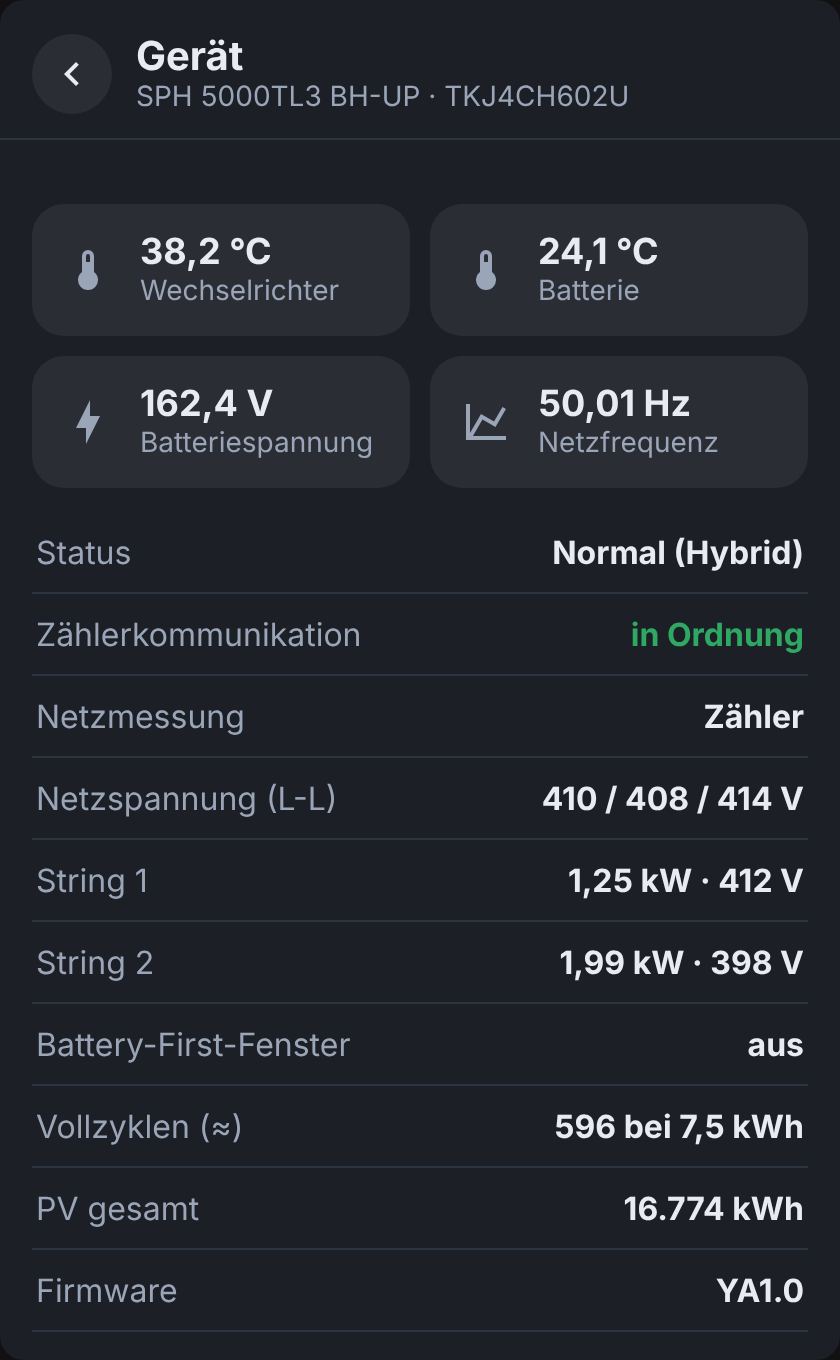
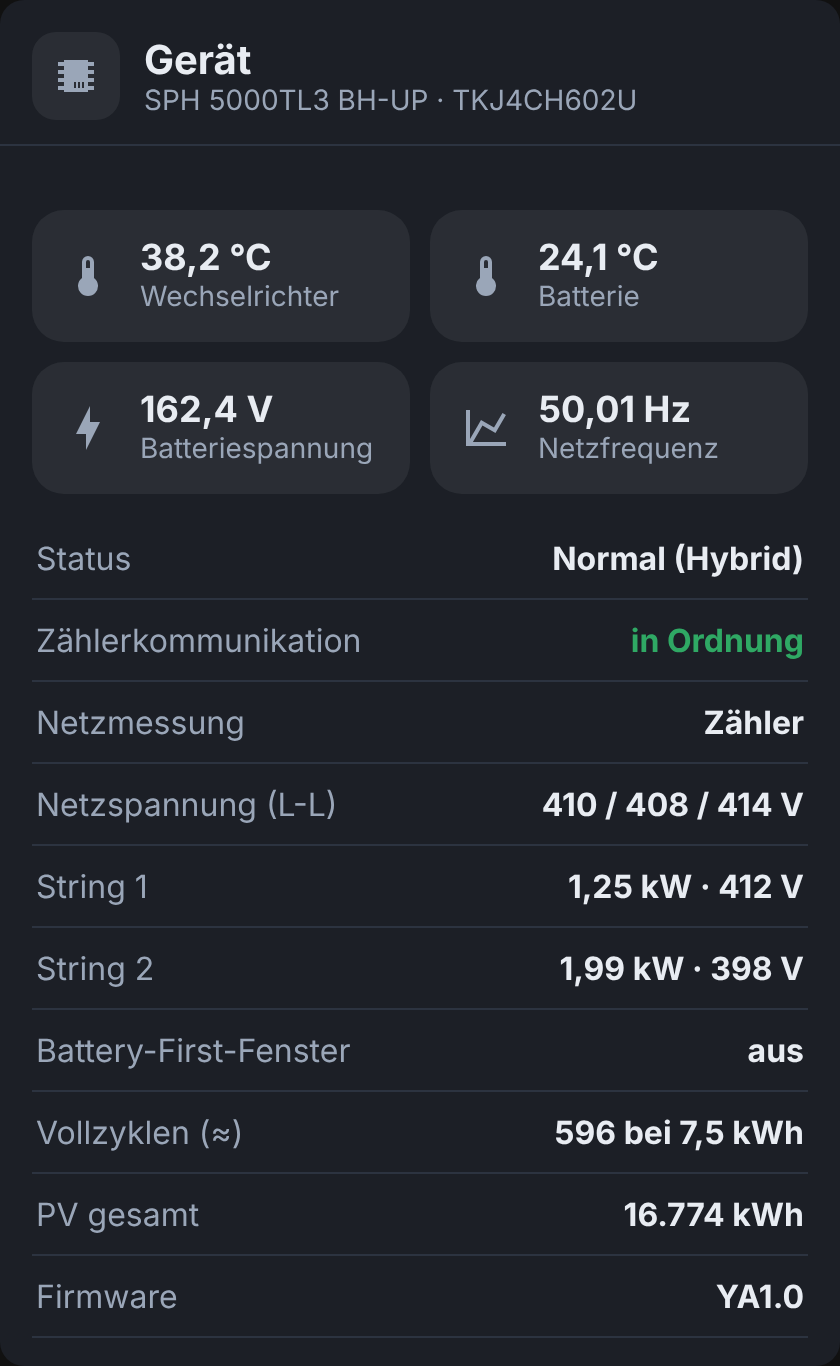
0.2.1: Ansicht pro Karte wählbar statt Navigation

diff --git a/custom_components/growatt_sph_local/www/growatt-sph-card.js b/custom_components/growatt_sph_local/www/growatt-sph-card.js
@@ -1,14 +1,17 @@
 /*
  * Growatt SPH Card – Dashboard-Karte für die Integration "Growatt SPH (lokal)".
  *
- * Ansichten: Übersicht (Haus-Grafik, Ladestand, Leistung), Heute & Verlauf
- * (Tagessummen, Monatsbalken aus der Langzeitstatistik), Steuerung (Entladestopp,
- * Netzladen, Backup-Reserve) und Gerät (Temperaturen, Netz, Strings, Firmware).
+ * Eine Karte zeigt genau eine Ansicht, gewählt mit `view` (im Karten-Editor auswählbar):
+ *   overview – Haus-Grafik, Ladestand, Leistung (Standard)
+ *   today    – Tagessummen, Monatsbalken aus der Langzeitstatistik
+ *   control  – Entladestopp, Netzladen, Backup-Reserve
+ *   device   – Temperaturen, Netz, Strings, Firmware
+ * Für mehrere Ansichten einfach mehrere Karten anlegen.
  *
  * Die Entitäten werden über das Entitätsregister gefunden (Plattform
  * growatt_sph_local, translation_key) – die minimale Konfiguration ist
  *   type: custom:growatt-sph-card
- * Optional: title, capacity (nutzbare Batteriekapazität in kWh, Standard 7.5),
+ * Optional: view, title, capacity (nutzbare Batteriekapazität in kWh, Standard 7.5),
  *           device_id (bei mehreren Wechselrichtern).
  *
  * Gestaltung angelehnt an die Karten von BavarianData (Chris Krammer, MIT),
@@ -16,7 +19,13 @@
  * MIT-Lizenz, Nutzung auf eigene Verantwortung.
  */
 
-const GSC_VERSION = "0.2.0";
+const GSC_VERSION = "0.2.1";
+const GSC_VIEWS = {
+  overview: "Übersicht",
+  today: "Heute & Verlauf",
+  control: "Steuerung",
+  device: "Gerät",
+};
 const GSC_PLATFORM = "growatt_sph_local";
 const GSC_ACTIVE_W = 30; // darunter gilt die Batterie als ruhend
 
@@ -67,7 +76,7 @@ const gscEsc = (s) => String(s ?? "").replace(/[&<>"']/g, (c) => ({ "&": "&amp;"
 
 class GrowattSphCard extends HTMLElement {
   static getStubConfig() {
-    return { capacity: 7.5 };
+    return { view: "overview", capacity: 7.5 };
   }
 
   static getConfigElement() {
@@ -76,7 +85,11 @@ class GrowattSphCard extends HTMLElement {
 
   setConfig(config) {
     this._config = { capacity: 7.5, ...(config || {}) };
-    this._view = this._view || "overview";
+    const view = this._config.view || "overview";
+    if (!GSC_VIEWS[view]) {
+      throw new Error(`Unbekannte Ansicht „${view}“ – erlaubt: ${Object.keys(GSC_VIEWS).join(", ")}`);
+    }
+    this._view = view;
     if (!this.shadowRoot) {
       this.attachShadow({ mode: "open" });
       this.shadowRoot.addEventListener("click", (ev) => this._onClick(ev));
@@ -314,13 +327,6 @@ class GrowattSphCard extends HTMLElement {
     return `<div class="tile">${gscIcon(icon, cls)}<div><div class="tv">${value}</div><div class="tl">${gscEsc(label)}</div></div></div>`;
   }
 
-  _row(view, icon, title, sub) {
-    return `<button class="row" data-view="${view}">
-      <span class="ri">${gscIcon(icon)}</span>
-      <span class="rt"><span class="rh">${gscEsc(title)}</span><span class="rs">${gscEsc(sub)}</span></span>
-      ${gscIcon("chevron", "chev")}</button>`;
-  }
-
   _viewOverview() {
     const m = this._model();
     const h = this._headline(m);
@@ -359,16 +365,16 @@ class GrowattSphCard extends HTMLElement {
           ${this._tile(m.mode === "charge" ? "batteryCharging" : "battery", this._power(batVal), batLabel, m.mode === "charge" ? "green" : m.mode === "discharge" ? "amber" : "")}
         </div>
       </div>
-      <div class="rows">
-        ${this._row("today", "chart", "Heute & Verlauf", `${this._kwh(pvToday)} Solar · ${autark === null ? "–" : this._fmt(autark, 0)} % autark`)}
-        ${this._row("control", "tune", "Steuerung", ctrlSub)}
-        ${this._row("device", "chip", "Gerät", devSub)}
+      <div class="foot">
+        <span>${gscIcon("chart")}Heute ${this._kwh(pvToday)} Solar · ${autark === null ? "–" : this._fmt(autark, 0)} % autark</span>
+        <span>${gscIcon("tune")}${gscEsc(ctrlSub)}</span>
+        <span>${gscIcon("chip")}${gscEsc(devSub)}</span>
       </div>`;
   }
 
-  _subHead(title, sub) {
-    return `<div class="subhead"><button class="back" data-view="overview" aria-label="Zurück">${gscIcon("back")}</button>
-      <div><div class="sh">${gscEsc(title)}</div><div class="ss">${gscEsc(sub)}</div></div></div>`;
+  _subHead(title, sub, icon) {
+    return `<div class="subhead"><span class="hi">${gscIcon(icon)}</span>
+      <div><div class="sh">${gscEsc(this._config.title || title)}</div><div class="ss">${gscEsc(sub)}</div></div></div>`;
   }
 
   _stat(value, unit, label) {
@@ -393,7 +399,7 @@ class GrowattSphCard extends HTMLElement {
     const selfUse = pv ? Math.max(0, Math.min(100, (1 - (exp ?? 0) / pv) * 100)) : null;
     this._ensureMonth();
     return `
-      ${this._subHead("Heute & Verlauf", new Date().toLocaleDateString(this._lang, { weekday: "long", day: "numeric", month: "long" }))}
+      ${this._subHead("Heute & Verlauf", new Date().toLocaleDateString(this._lang, { weekday: "long", day: "numeric", month: "long" }), "chart")}
       <div class="pad">
         <div class="stats3">
           ${this._stat(this._fmt(pv, 1), "kWh", "Solar")}
@@ -512,7 +518,7 @@ class GrowattSphCard extends HTMLElement {
     const m = this._model();
     const mode = m.gridCharge ? "Netzladen" : m.hold ? "Entladestopp" : "Lastvorrang (normal)";
     return `
-      ${this._subHead("Steuerung", `Betrieb: ${mode}`)}
+      ${this._subHead("Steuerung", `Betrieb: ${mode}`, "tune")}
       <div class="pad">
         ${this._toggle("battery_hold", "Entladestopp", "Batterie entlädt nicht, PV lädt weiter", "lock")}
         ${this._toggle("grid_charge", "Netzladen", `lädt aus dem Netz bis ${m.gcSoc} %`, "tower")}
@@ -539,7 +545,7 @@ class GrowattSphCard extends HTMLElement {
     const cycles = discharged !== null ? discharged / m.cap : null;
     const meterLoss = this._on("meter_com_loss");
     return `
-      ${this._subHead("Gerät", [dev.model, dev.serial_number].filter(Boolean).join(" · ") || "Growatt SPH")}
+      ${this._subHead("Gerät", [dev.model, dev.serial_number].filter(Boolean).join(" · ") || "Growatt SPH", "chip")}
       <div class="pad">
         <div class="tiles">
           ${this._tile("thermo", `${this._fmt(this._num("inverter_temperature"), 1)} °C`, "Wechselrichter")}
@@ -570,14 +576,8 @@ class GrowattSphCard extends HTMLElement {
 
   // ---------- Bedienung ----------
   _onClick(ev) {
-    const el = ev.composedPath().find((n) => n.dataset && (n.dataset.view || n.dataset.toggle || n.dataset.step || n.dataset.month));
+    const el = ev.composedPath().find((n) => n.dataset && (n.dataset.toggle || n.dataset.step || n.dataset.month));
     if (!el) return;
-    if (el.dataset.view) {
-      this._view = el.dataset.view;
-      this._last = "";
-      this._paint();
-      return;
-    }
     if (el.dataset.month) {
       const d = this._month;
       this._month = new Date(d.getFullYear(), d.getMonth() + parseInt(el.dataset.month, 10), 1);
@@ -671,9 +671,6 @@ const GSC_STYLES = `
   .tile .ic { fill: var(--gsc-fg2); } .tile .ic.amber { fill: var(--gsc-amber); } .tile .ic.green { fill: var(--gsc-green); }
   .tv { font-size: 18px; font-weight: 700; } .tl { color: var(--gsc-fg2); font-size: 14px; }
 
-  .rows { border-top: 1px solid var(--divider-color, #e1e6ee); padding: 6px 8px 8px; }
-  .row { display: flex; align-items: center; gap: 14px; width: 100%; text-align: left; padding: 12px; border-radius: 14px; }
-  .row:hover, .row:focus-visible { background: var(--gsc-tile); outline: none; }
   .ri { display: grid; place-items: center; width: 44px; height: 44px; border-radius: 12px; background: var(--gsc-tile); }
   .ri .ic { fill: var(--gsc-fg2); }
   .rt { flex: 1; display: flex; flex-direction: column; min-width: 0; }
@@ -681,8 +678,11 @@ const GSC_STYLES = `
   .chev { fill: var(--gsc-fg2); }
 
   .subhead { display: flex; align-items: center; gap: 12px; padding: 16px 16px 12px; border-bottom: 1px solid var(--divider-color, #e1e6ee); }
-  .back { display: grid; place-items: center; width: 40px; height: 40px; border-radius: 50%; background: var(--gsc-tile); }
-  .back .ic { fill: var(--gsc-fg); }
+  .hi { display: grid; place-items: center; width: 44px; height: 44px; border-radius: 12px; background: var(--gsc-tile); flex: none; }
+  .hi .ic { fill: var(--gsc-fg2); }
+  .foot { display: flex; flex-direction: column; gap: 8px; border-top: 1px solid var(--divider-color, #e1e6ee); padding: 14px 20px 16px; color: var(--gsc-fg2); font-size: 14px; }
+  .foot span { display: flex; align-items: center; gap: 10px; }
+  .foot .ic { width: 18px; height: 18px; fill: var(--gsc-fg2); }
   .sh { font-size: 20px; font-weight: 700; } .ss { color: var(--gsc-fg2); font-size: 14px; }
   .pad { padding: 14px 16px; }
   .divider { border-top: 1px solid var(--divider-color, #e1e6ee); }
@@ -738,13 +738,17 @@ class GrowattSphCardEditor extends HTMLElement {
     if (!this.shadowRoot) this.attachShadow({ mode: "open" });
     const c = this._config || {};
     this.shadowRoot.innerHTML = `
-      <style>label{display:block;margin:10px 0 4px;font-weight:600}input{width:100%;box-sizing:border-box;padding:8px;font:inherit}
+      <style>label{display:block;margin:10px 0 4px;font-weight:600}input,select{width:100%;box-sizing:border-box;padding:8px;font:inherit}
       .hint{color:var(--secondary-text-color);font-size:13px;margin-top:4px}</style>
-      <label for="t">Titel</label><input id="t" value="${gscEsc(c.title || "")}" placeholder="Gerätename">
+      <label for="v">Ansicht</label>
+      <select id="v">${Object.entries(GSC_VIEWS).map(([k, n]) =>
+        `<option value="${k}" ${(c.view || "overview") === k ? "selected" : ""}>${gscEsc(n)}</option>`).join("")}</select>
+      <label for="t">Titel</label><input id="t" value="${gscEsc(c.title || "")}" placeholder="Standard je nach Ansicht">
       <label for="c">Nutzbare Batteriekapazität (kWh)</label><input id="c" type="number" step="0.1" min="1" value="${gscEsc(c.capacity ?? 7.5)}">
       <div class="hint">Für Restlaufzeit, „nutzbar bis Reserve“ und Vollzyklen.</div>`;
     const fire = () => {
       const cfg = { ...this._config };
+      cfg.view = this.shadowRoot.getElementById("v").value;
       const t = this.shadowRoot.getElementById("t").value.trim();
       const cap = parseFloat(this.shadowRoot.getElementById("c").value);
       if (t) cfg.title = t; else delete cfg.title;
@@ -753,6 +757,7 @@ class GrowattSphCardEditor extends HTMLElement {
       this.dispatchEvent(new CustomEvent("config-changed", { detail: { config: cfg }, bubbles: true, composed: true }));
     };
     this.shadowRoot.getElementById("t").addEventListener("change", fire);
+    this.shadowRoot.getElementById("v").addEventListener("change", fire);
     this.shadowRoot.getElementById("c").addEventListener("change", fire);
   }
 }
@@ -764,7 +769,7 @@ if (!window.customCards.some((c) => c.type === "growatt-sph-card")) {
   window.customCards.push({
     type: "growatt-sph-card",
     name: "Growatt SPH Karte",
-    description: "Wechselrichter, Batterie, Tagessummen und Steuerung der Integration Growatt SPH (lokal).",
+    description: "Wechselrichter der Integration Growatt SPH (lokal) – Ansicht wählbar: Übersicht, Heute & Verlauf, Steuerung oder Gerät.",
     preview: true,
   });
 }
